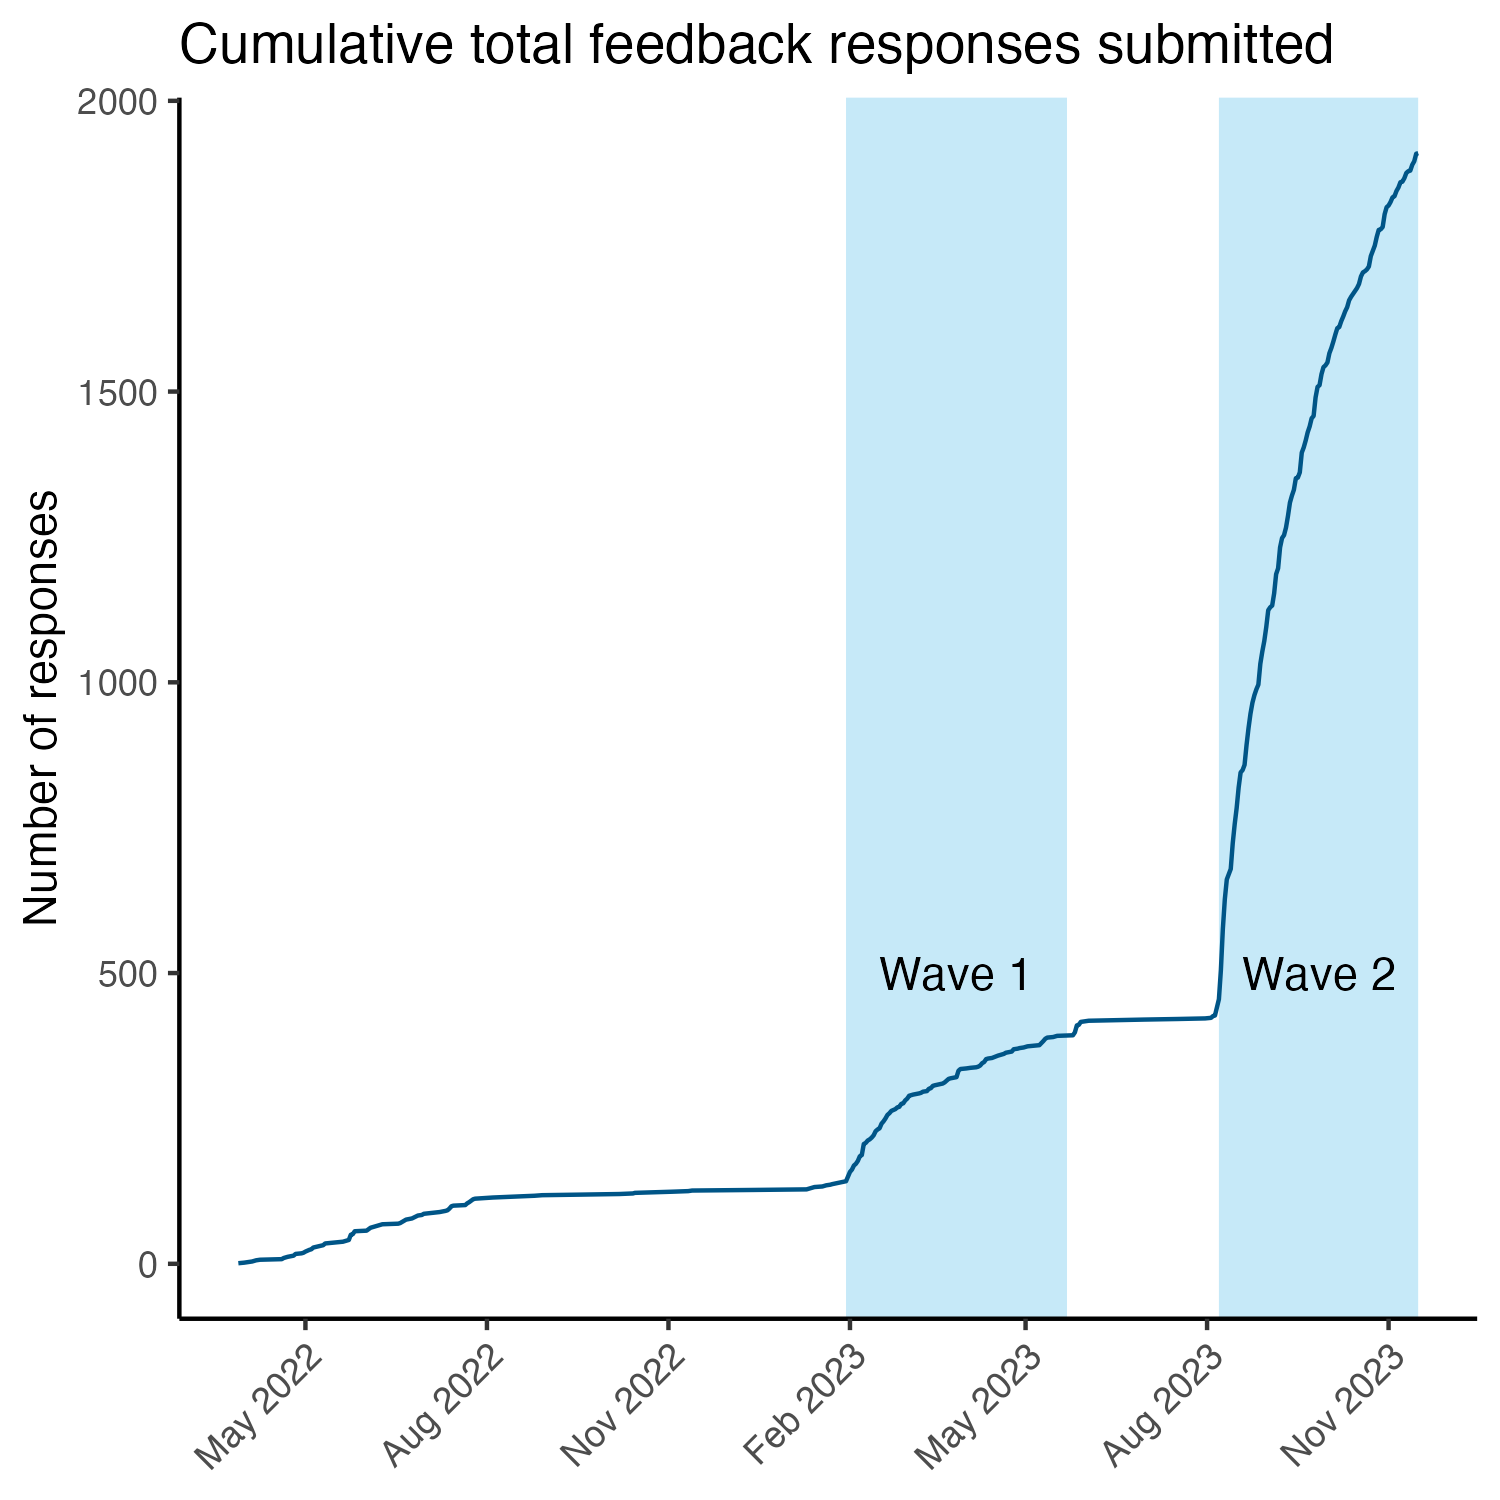
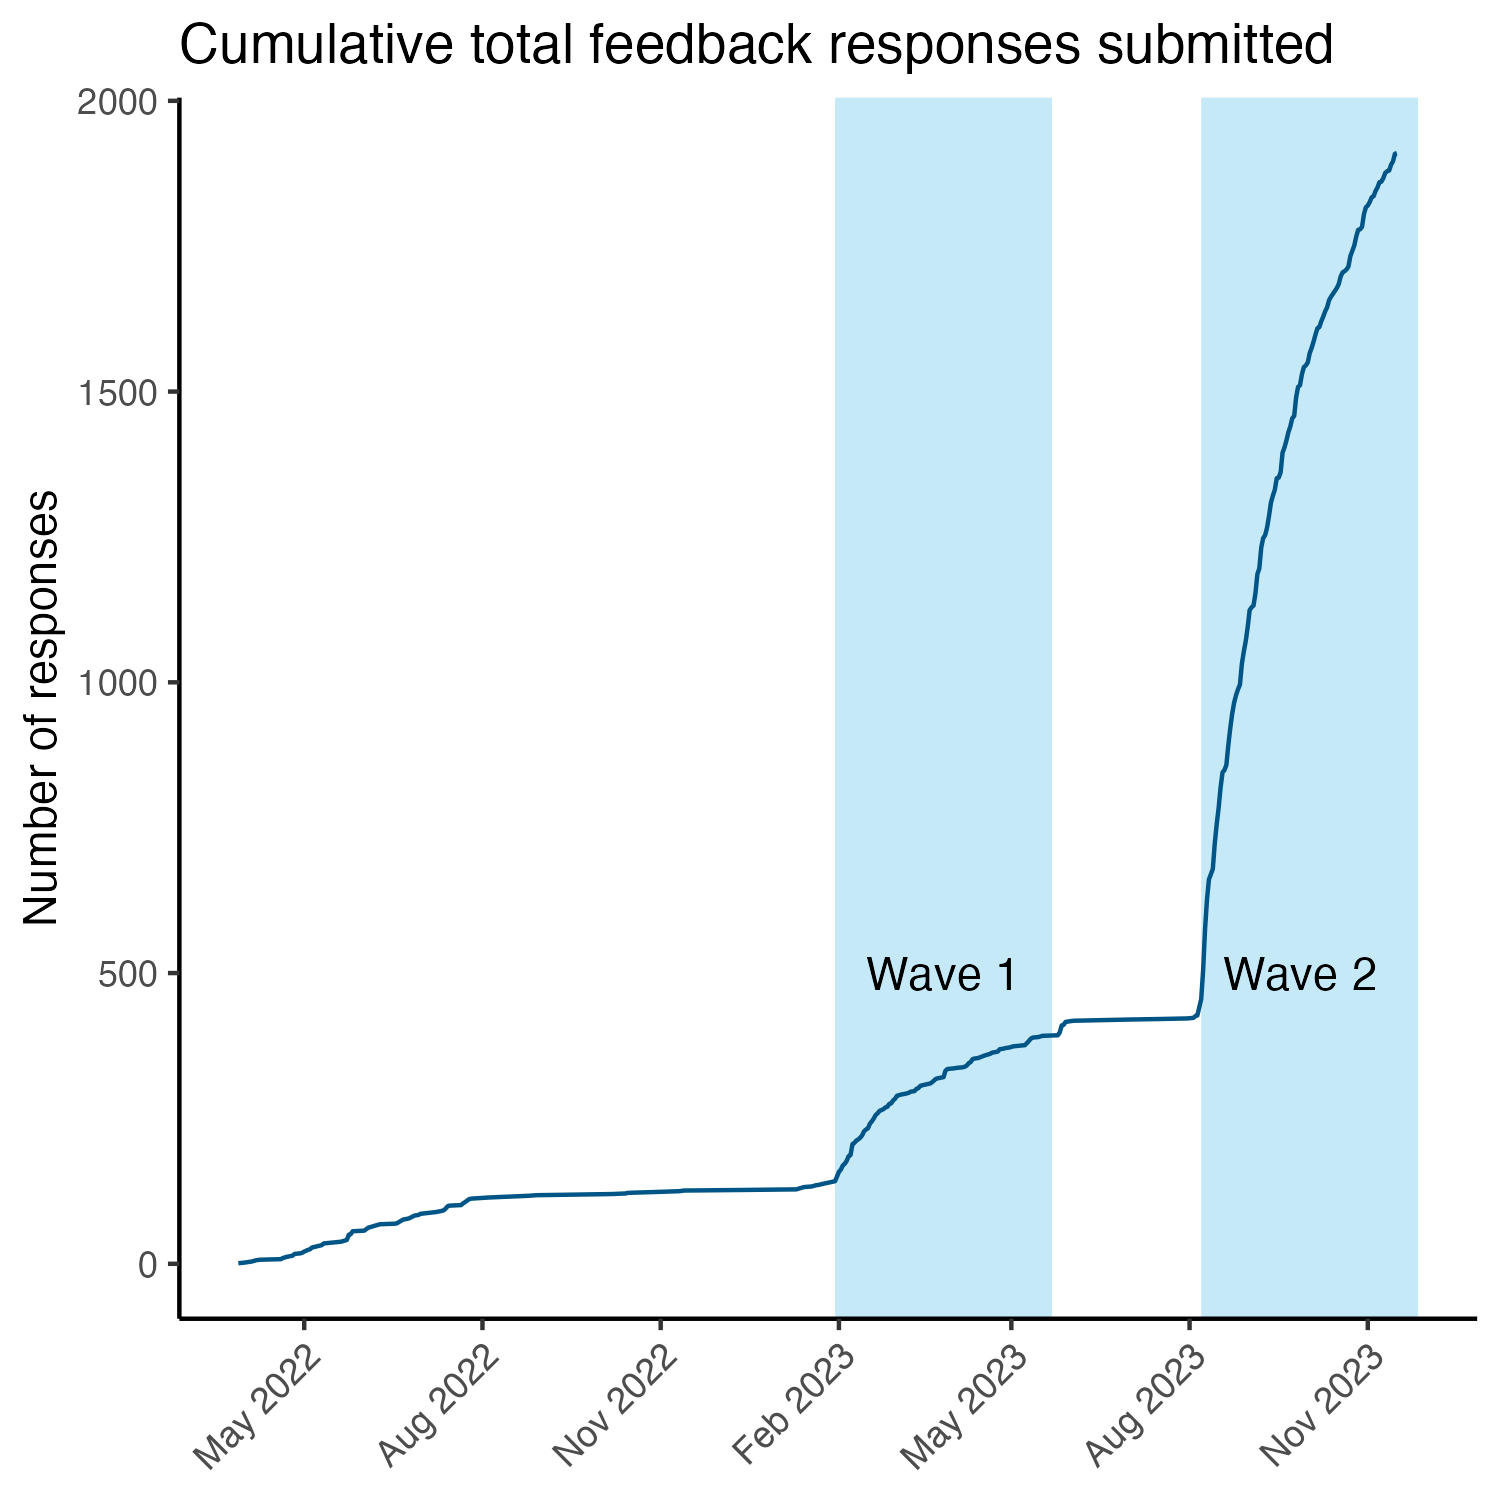
Tidying up code

diff --git a/reports/notebooks/rigor_champions_impact.md b/reports/notebooks/rigor_champions_impact.md
@@ -29,7 +29,8 @@ quick_module_feedback <- readRDS(here::here("data", "raw", "quick_module_feedbac
 ```
 
 ``` r
-program_dates <- as.Date(c("2023-01-30", "2023-03-27", "2023-05-22", "2023-08-07", "2023-09-27"))
+program_dates <- as.Date(c("2023-01-30", "2023-03-27", "2023-05-22", "2023-08-07", "2023-09-27", "2023-11-27"))
+names(program_dates) <- c("w1_start", "w1_mid", "w1_end", "w2_start", "w2_mid", "w2_end")
 
 quick_module_feedback |> 
   dplyr::count(date) |> 
@@ -38,18 +39,17 @@ quick_module_feedback |>
   ggplot(aes(x=date, y=total)) + 
   labs(x=NULL, y = "Number of responses", title = "Cumulative total feedback responses submitted") +
   annotate("rect", fill = chop_blue, alpha = 0.3, 
-        xmin = program_dates[1], 
-        xmax = program_dates[3],
+        xmin = program_dates["w1_start"], 
+        xmax = program_dates["w1_end"],
         ymin = -Inf, ymax = Inf)  + 
   annotate("rect", fill = chop_blue, alpha = 0.3, 
-        xmin = program_dates[4], 
-        xmax = max(as.Date(quick_module_feedback$date)),
+        xmin = program_dates["w2_start"], 
+        xmax = program_dates["w2_end"],
         ymin = -Inf, ymax = Inf)  + 
   geom_line(color = chop_darkblue) + 
   scale_x_date(date_breaks = "3 months", date_labels = "%b %Y") + 
   theme(axis.text.x = element_text(angle = 45, vjust = 1, hjust=1)) + 
-  annotate("text", x = program_dates[2], y = 500, label = "Wave 1") + 
-  annotate("text", x = program_dates[5], y = 500, label = "Wave 2")
+  annotate("text", x = program_dates[c("w1_mid", "w2_mid")], y = 500, label = c("Wave 1", "Wave 2")) 
 ```
 
 ![](rigor_champions_impact_files/figure-gfm/feedback_over_time-1.png)<!-- -->
